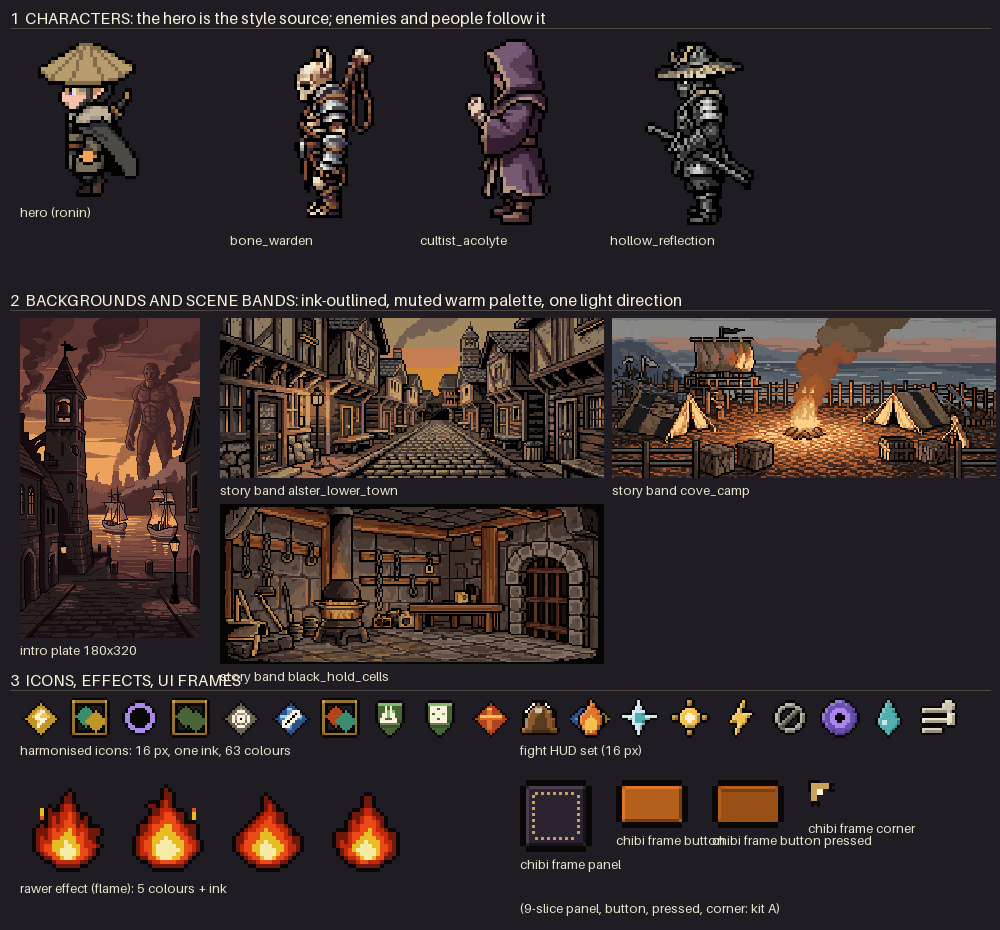
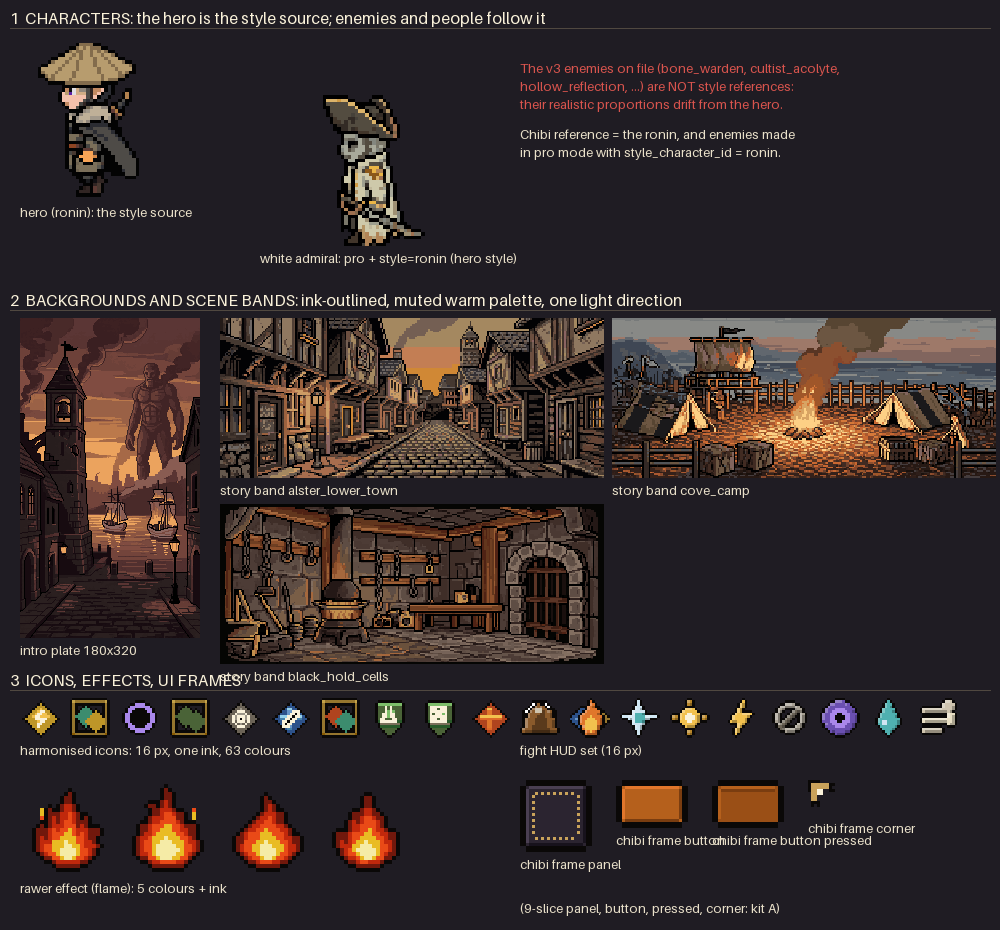
Art: art direction reference uses the hero-style test, not the v3 enemies (docs only)
Claude-Session: https://claude.ai/code/session_019ETFw1Uj2cByEfEuTF2CxM

Changed region(s): [[0.248, 0.0312, 0.837, 0.2806], [0.093, 0.2183, 0.186, 0.2495]]

diff --git a/docs/art/ART-DIRECTION.md b/docs/art/ART-DIRECTION.md
@@ -7,7 +7,7 @@ Reference sheet: `docs/art/boards/art-direction-reference.png`. Palette: `art/pi
 ## What each category follows
 | Category | Must follow | Reference files |
 |---|---|---|
-| **Characters and enemies** | side view, west for enemies (hero east), 60 px creatures and bosses, 48 px people, feet 1 to 2 px above the bottom, the hero's outline, proportions and shading, one accent colour | `assets/visuals/walker/ronin_idle_west.png`, `art/pixellab-enemies2/staged/` |
+| **Characters and enemies** | side view, west for enemies (hero east), 60 px creatures and bosses, 48 px people, feet 1 to 2 px above the bottom, the hero's outline, proportions and shading, one accent colour | `assets/visuals/walker/ronin_idle_west.png` and the pro + style-reference test `art/pixellab-enemies2/style/white_admiral_pro_style_ronin_60.png` (sheet `style-test.png`). **The v3 enemies currently in `art/pixellab-enemies2/staged/` are NOT style references**: their realistic 3.5-head proportions drift from the hero; they are placeholders until the hero-style pass (`docs/art/enemy-hero-style-draft.md`) |
 | **Icons** (16 px skills, items, HUD; 24 px UI) | one ink, shared palette, 1 px outline, gem or plate container, cream glyph, light top-left; harmonise, don't redraw | `art/pixellab-icons/harmonised/`, `art/pixellab-hud16/`, `art/pixellab-ui24/` |
 | **Effects** (48 px strips, 40 px die landings) | 9 or 8 frames, appear / peak / fade, 5 colours plus ink, hard edges, re-tinted by element through a 4-step luminance ramp, no glow | `art/pixellab-vfx/final/`, `art/pixellab-attackfx/strips/` |
 | **Backgrounds and scene bands** | 240x100 bands (story) and 180x320 plates (intro, fights), ink-outlined buildings, muted warm palette, one light source, no text, no figures unless asked | `art/pixellab-scenes/final/`, `art/pixellab-intro/final/`, `art/pixellab-backgrounds/fight/` |
